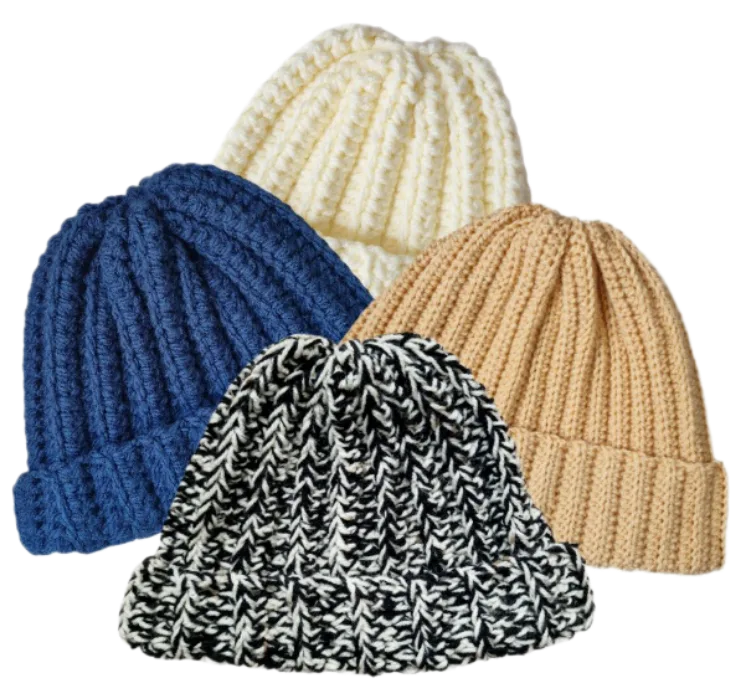
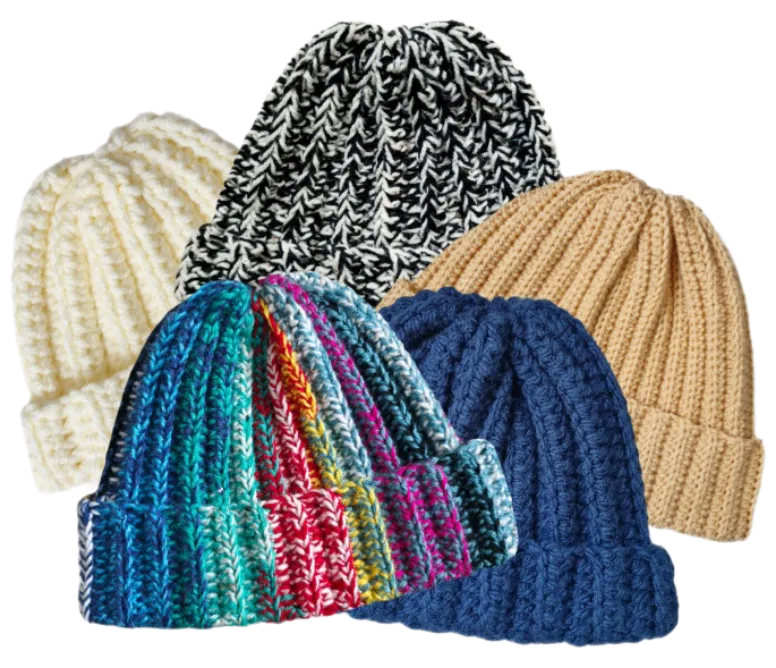
new hat

diff --git a/src/wearables.js b/src/wearables.js
@@ -1,28 +1,19 @@
-import a_top from './wearables/a_top.webp';
-import a_shawl from './wearables/a_shawl.webp';
-import ab_shophie from './wearables/ab_shophie.webp';
-import ac_sophie from './wearables/ac_sophie.webp';
-import b_top from './wearables/b_top.webp';
-import c_top from './wearables/c_top.webp';
 import a_hat from './wearables/a_hat.webp';
 import b_hat from './wearables/b_hat.webp';
 import c_hat from './wearables/c_hat.webp';
 import d_hat from './wearables/d_hat.webp';
 import e_hat from './wearables/e_hat.webp';
-import g_bag from './wearables/g_bag.webp';
-import h_bag from './wearables/h_bag.webp';
-import i_pouch from './wearables/i_pouch.webp';
-import j_bag from './wearables/j_bag.webp';
+import f_hat from './wearables/f_hat.webp';
 
 export const wearables = [
     {
         img: a_hat,
         name: 'Căciulă',
         price: null,
-        description: "Căciulă croșetată, realizată din fir 100% acril",
+        description: "Căciulă croșetată, realizată din multiple culori de fire, 100% acril.",
         id: 'a_hat',
         tags: ['wearables'],
-        in_stock: false,
+        in_stock: true,
     },
     {
         img: b_hat,
@@ -57,6 +48,15 @@ export const wearables = [
         price: null,
         description: "Căciulă croșetată, realizată din fir 100% acril",
         id: 'e_hat',
+        tags: ['wearables'],
+        in_stock: false,
+    },
+    {
+        img: f_hat,
+        name: 'Căciulă',
+        price: null,
+        description: "Căciulă croșetată, realizată din fir 100% acril",
+        id: 'f_hat',
         tags: ['wearables'],
         in_stock: false,
     },

diff --git a/src/homeware.js b/src/homeware.js
@@ -1,13 +1,6 @@
 import x_basket from './homeware/x_basket.webp';
 import y_basket from './homeware/y_basket.webp';
 import z_basket from './homeware/z_basket.webp';
-import a_coaster from './homeware/a_coaster.webp';
-import b_coaster from './homeware/b_coaster.webp';
-import c_coaster from './homeware/c_coaster.webp';
-import d_coaster from './homeware/d_coaster.webp';
-import e_coaster from './homeware/e_coaster.webp';
-import f_coaster from './homeware/f_coaster.webp';
-import g_doily from './homeware/g_doily.webp';
 
 export const homeware = [
     {
